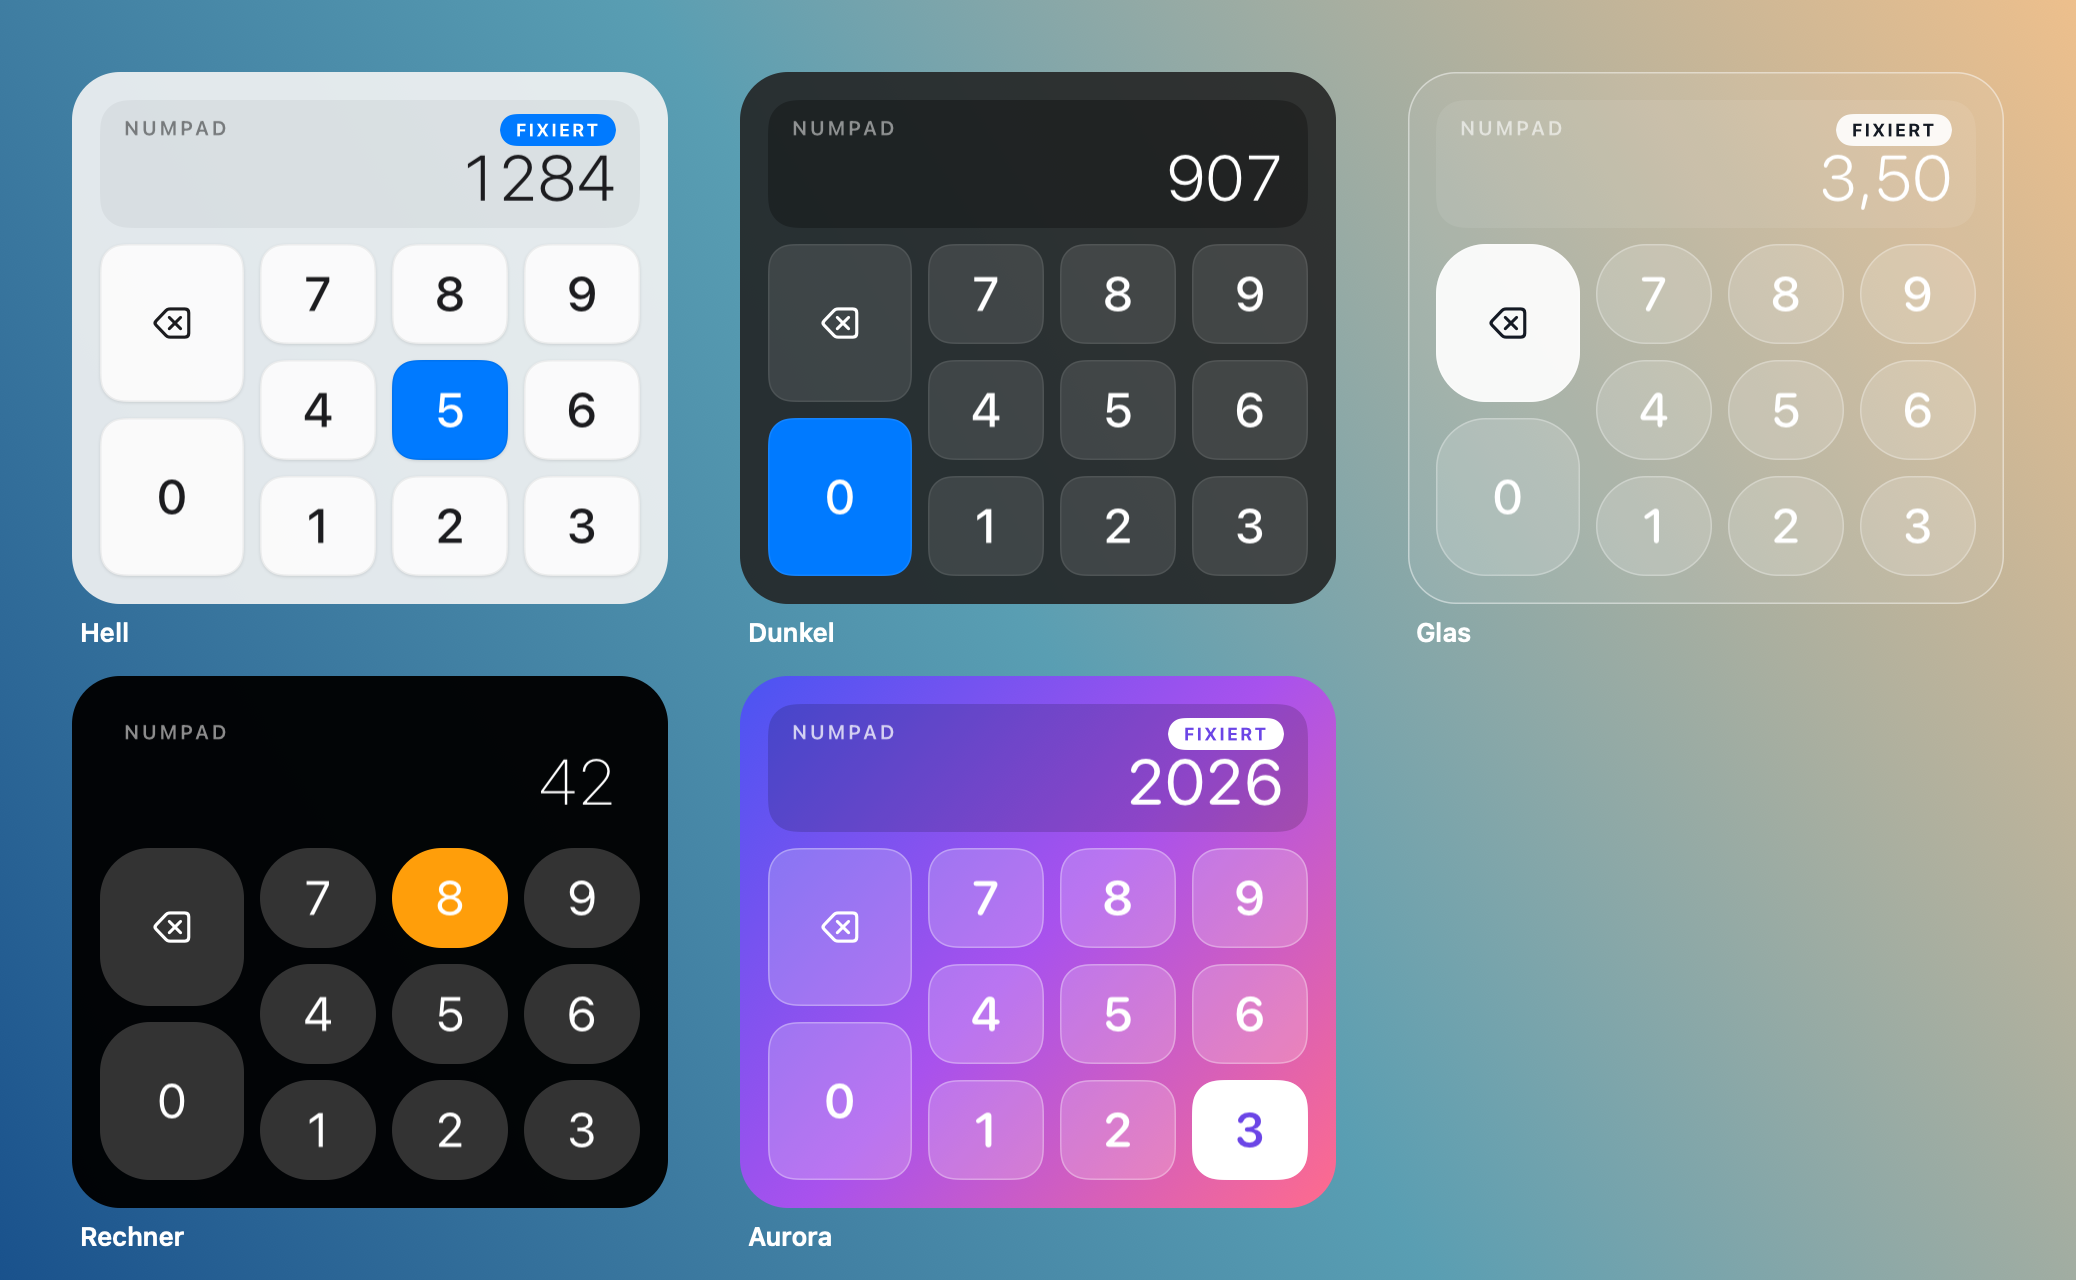
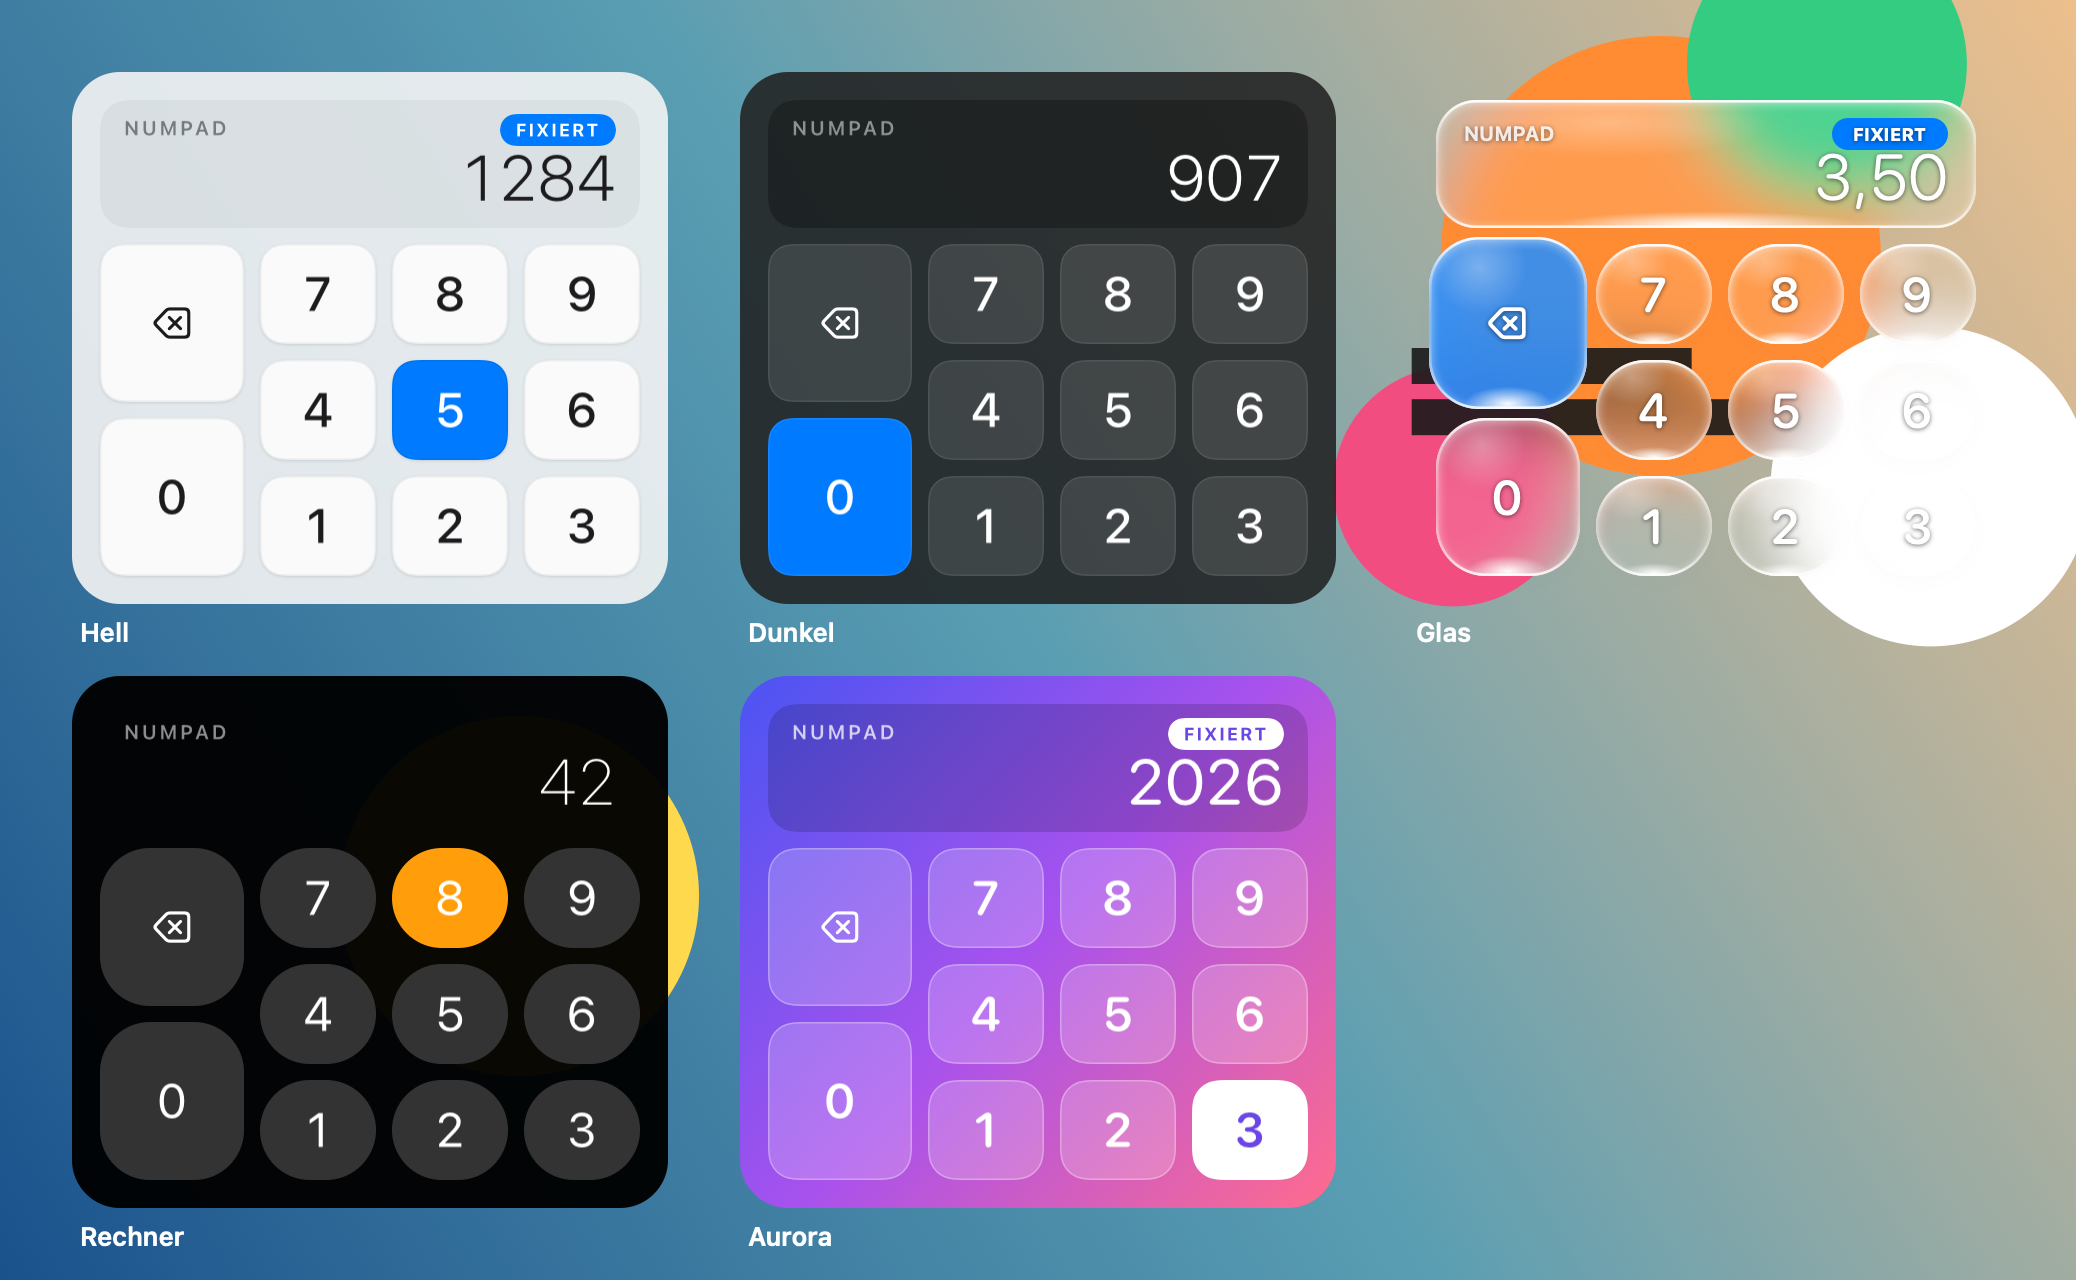
Glass design: iOS-style rim light, inner edge glow and glints
GlassSheenView adds a milky body, inward edge glow, top/bottom-weighted
gradient rim and specular glints on top of the system Liquid Glass;
frosted (regular) glass style, stronger legibility shadow. --render
now previews the glass design over a blurred photo-like backdrop.

Changed region(s): [[0.6166, 0.0, 1.0, 0.5312], [0.3083, 0.625, 0.3391, 0.7812]]

diff --git a/Sources/GlassSheen.swift b/Sources/GlassSheen.swift
@@ -1,0 +1,180 @@
+import AppKit
+import CoreImage
+
+/// Lighting on top of a blurred backdrop that makes it read as a thick piece of glass
+/// (iOS 26 Control Center look): milky body, inner edge glow, bright gradient rim, specular glints.
+final class GlassSheenView: NSView {
+    private let radius: CGFloat
+    private let frost = CALayer()
+    private let edgeGlow = CAShapeLayer()
+    private let edgeMask = CAShapeLayer()
+    private let rim = CAGradientLayer()
+    private let rimMask = CAShapeLayer()
+    private let glintClip = CALayer()
+    private let topGlint = CAGradientLayer()
+    private let bottomGlint = CAGradientLayer()
+
+    init(frame: NSRect, radius: CGFloat) {
+        self.radius = radius
+        super.init(frame: frame)
+        wantsLayer = true
+        autoresizingMask = [.width, .height]
+        guard let root = layer else { return }
+
+        frost.backgroundColor = NSColor.white.withAlphaComponent(0.13).cgColor
+        root.addSublayer(frost)
+
+        // Inner glow: a white "shadow" cast inwards from outside the shape – thick, lens-like edges.
+        edgeGlow.fillRule = .evenOdd
+        edgeGlow.fillColor = NSColor.white.cgColor
+        edgeGlow.shadowColor = NSColor.white.cgColor
+        edgeGlow.shadowOpacity = 0.75
+        edgeGlow.shadowRadius = 6
+        edgeGlow.shadowOffset = CGSize(width: 0, height: -1.5)   // light from above
+        edgeGlow.mask = edgeMask
+        root.addSublayer(edgeGlow)
+
+        glintClip.masksToBounds = true
+        for g in [topGlint, bottomGlint] {
+            g.type = .radial
+            g.startPoint = CGPoint(x: 0.5, y: 0.5)
+            g.endPoint = CGPoint(x: 1, y: 1)
+            glintClip.addSublayer(g)
+        }
+        topGlint.colors = [NSColor.white.withAlphaComponent(0.30).cgColor, NSColor.white.withAlphaComponent(0).cgColor]
+        bottomGlint.colors = [NSColor.white.withAlphaComponent(0.95).cgColor, NSColor.white.withAlphaComponent(0).cgColor]
+        root.addSublayer(glintClip)
+
+        // Rim: bright at the top and bottom edge, faint on the sides.
+        rim.colors = [0.95, 0.40, 0.10, 0.10, 0.45, 0.85].map { NSColor.white.withAlphaComponent($0).cgColor }
+        rim.locations = [0, 0.18, 0.45, 0.6, 0.86, 1]
+        rim.startPoint = CGPoint(x: 0.5, y: 1)
+        rim.endPoint = CGPoint(x: 0.5, y: 0)
+        rimMask.fillColor = nil
+        rimMask.strokeColor = NSColor.black.cgColor
+        rimMask.lineWidth = 1.3
+        rim.mask = rimMask
+        root.addSublayer(rim)
+
+        relayout()
+    }
+
+    required init?(coder: NSCoder) { fatalError() }
+
+    /// Keeps white glyphs readable when the glass sits on something bright.
+    static let legibilityShadow: NSShadow = {
+        let s = NSShadow()
+        s.shadowColor = NSColor.black.withAlphaComponent(0.55)
+        s.shadowBlurRadius = 5
+        s.shadowOffset = NSSize(width: 0, height: -0.5)
+        return s
+    }()
+
+    override func setFrameSize(_ newSize: NSSize) {
+        super.setFrameSize(newSize)
+        relayout()
+    }
+
+    private func relayout() {
+        CATransaction.begin()
+        CATransaction.setDisableActions(true)
+        let b = bounds
+        let r = min(radius, b.height / 2, b.width / 2)
+        let shape = CGPath(roundedRect: b, cornerWidth: r, cornerHeight: r, transform: nil)
+
+        frost.frame = b
+        frost.cornerRadius = r
+
+        let outside = CGMutablePath()
+        outside.addRect(b.insetBy(dx: -24, dy: -24))
+        outside.addPath(shape)
+        edgeGlow.frame = b
+        edgeGlow.path = outside
+        edgeMask.frame = b
+        edgeMask.path = shape
+
+        glintClip.frame = b
+        glintClip.cornerRadius = r
+        topGlint.frame = CGRect(x: b.width * 0.02, y: b.height * 0.55, width: b.width * 0.6, height: b.height * 0.55)
+        bottomGlint.frame = CGRect(x: b.midX - b.width * 0.28, y: -b.height * 0.07, width: b.width * 0.56, height: b.height * 0.2)
+
+        rim.frame = b
+        rimMask.frame = b
+        let inset = rimMask.lineWidth / 2
+        rimMask.path = CGPath(roundedRect: b.insetBy(dx: inset, dy: inset), cornerWidth: r - inset, cornerHeight: r - inset, transform: nil)
+        CATransaction.commit()
+    }
+}
+
+/// Offscreen approximation of the "Glas" design for `--render` (the real blur comes from the window server).
+enum GlassPreview {
+    static func draw(into ctx: CGContext, canvas: CGSize, origin: CGPoint, keyFrames: [PadKey: CGRect], displayFrame: CGRect,
+                     typed: String, pressed: PadKey, latched: Bool, scale: CGFloat) {
+        guard let snapshot = ctx.makeImage() else { return }
+        let ci = CIImage(cgImage: snapshot).clampedToExtent()
+            .applyingGaussianBlur(sigma: 14 * scale).cropped(to: CGRect(x: 0, y: 0, width: snapshot.width, height: snapshot.height))
+        guard let blurred = CIContext().createCGImage(ci, from: ci.extent) else { return }
+
+        func glass(_ rect: CGRect, radius: CGFloat, glow: Bool) {
+            let r = rect.offsetBy(dx: origin.x, dy: origin.y)
+            let rr = min(radius, r.height / 2)
+            ctx.saveGState()
+            ctx.setShadow(offset: CGSize(width: 0, height: -6), blur: 18, color: NSColor.black.withAlphaComponent(0.25).cgColor)
+            ctx.addPath(CGPath(roundedRect: r, cornerWidth: rr, cornerHeight: rr, transform: nil))
+            ctx.setFillColor(NSColor.black.withAlphaComponent(0.05).cgColor)
+            ctx.fillPath()
+            ctx.restoreGState()
+
+            ctx.saveGState()
+            ctx.addPath(CGPath(roundedRect: r, cornerWidth: rr, cornerHeight: rr, transform: nil))
+            ctx.clip()
+            // Slight magnification, like the lens edge of Liquid Glass.
+            let mag: CGFloat = 1.04
+            let full = CGRect(origin: .zero, size: canvas)
+            let zoomed = CGRect(x: r.midX - (r.midX - full.minX) * mag, y: r.midY - (r.midY - full.minY) * mag,
+                                width: full.width * mag, height: full.height * mag)
+            ctx.draw(blurred, in: zoomed)
+            if glow {
+                ctx.setFillColor(NSColor.controlAccentColor.withAlphaComponent(0.85).cgColor)
+                ctx.fill(r)
+            }
+            ctx.restoreGState()
+
+            let sheen = GlassSheenView(frame: NSRect(origin: .zero, size: r.size), radius: radius)
+            ctx.saveGState()
+            ctx.translateBy(x: r.minX, y: r.minY)
+            sheen.layer?.render(in: ctx)
+            ctx.restoreGState()
+        }
+
+        let shadow = GlassSheenView.legibilityShadow
+        func text(_ s: String, _ font: NSFont, in rect: CGRect, align: NSTextAlignment = .center, color: NSColor = .white) {
+            let p = NSMutableParagraphStyle()
+            p.alignment = align
+            let a = NSAttributedString(string: s, attributes: [.font: font, .foregroundColor: color, .paragraphStyle: p, .shadow: shadow])
+            let h = a.size().height
+            let r = rect.offsetBy(dx: origin.x, dy: origin.y)
+            a.draw(in: CGRect(x: r.minX, y: r.midY - h / 2, width: r.width, height: h))
+        }
+
+        NSGraphicsContext.current = NSGraphicsContext(cgContext: ctx, flipped: false)
+        for (key, rect) in keyFrames {
+            let r = key == pressed ? rect.insetBy(dx: -3.5, dy: -3.5) : rect
+            glass(r, radius: 25, glow: key == pressed)
+            text(key.label, key == .delete ? .systemFont(ofSize: 22) : NSFont.systemFont(ofSize: 24, weight: .medium).roundedVariant, in: r)
+        }
+        glass(displayFrame, radius: 20, glow: false)
+        let d = displayFrame
+        text("NUMPAD", .systemFont(ofSize: 10, weight: .semibold), in: CGRect(x: d.minX + 14, y: d.maxY - 24, width: 120, height: 14),
+             align: .left, color: NSColor.white.withAlphaComponent(0.85))
+        text(typed, NSFont.monospacedDigitSystemFont(ofSize: 32, weight: .light).roundedVariant,
+             in: CGRect(x: d.minX + 12, y: d.minY + 6, width: d.width - 26, height: 40), align: .right)
+        if latched {
+            let pill = CGRect(x: d.maxX - 14 - 58, y: d.maxY - 25, width: 58, height: 16).offsetBy(dx: origin.x, dy: origin.y)
+            ctx.addPath(CGPath(roundedRect: pill, cornerWidth: 8, cornerHeight: 8, transform: nil))
+            ctx.setFillColor(NSColor.controlAccentColor.cgColor)
+            ctx.fillPath()
+            text("FIXIERT", .systemFont(ofSize: 9, weight: .bold), in: pill.offsetBy(dx: -origin.x, dy: -origin.y))
+        }
+    }
+}

diff --git a/Sources/LiquidGlassBoard.swift b/Sources/LiquidGlassBoard.swift
@@ -3,6 +3,7 @@ import AppKit
 /// "Glas" design on macOS 26: every key and the display are individual, see-through Liquid Glass
 /// elements floating on the desktop (no backing slab). They share one NSGlassEffectContainerView,
 /// so a pressed key that bulges towards its neighbours briefly melts into them.
+/// macOS draws the blur and refraction; GlassSheenView adds the iOS-style rim light and edge glow.
 @available(macOS 26.0, *)
 final class LiquidGlassBoard: NSView {
     /// Glass shapes closer than this merge. Resting gap is larger, so only a pressed (bulged) key merges.
@@ -37,6 +38,7 @@ final class LiquidGlassBoard: NSView {
             glow.layer?.cornerRadius = 25
             glow.alphaValue = 0
             host.addSubview(glow)
+            host.addSubview(GlassSheenView(frame: host.bounds, radius: 25))
             let label = Self.label(key.label, font: key == .delete
                 ? .systemFont(ofSize: 22, weight: .regular)
                 : Self.rounded(24, .medium))
@@ -48,6 +50,7 @@ final class LiquidGlassBoard: NSView {
         let displayGlass = makeGlass(displayFrame, radius: 20)
         let dc = NSView(frame: NSRect(origin: .zero, size: displayFrame.size))
         displayGlass.contentView = dc
+        dc.addSubview(GlassSheenView(frame: dc.bounds, radius: 20))
 
         let caption = Self.label("", font: .systemFont(ofSize: 10, weight: .semibold))
         caption.attributedStringValue = NSAttributedString(string: "NUMPAD", attributes: [
@@ -120,7 +123,7 @@ final class LiquidGlassBoard: NSView {
 
     private func makeGlass(_ rect: CGRect, radius: CGFloat) -> NSGlassEffectView {
         let g = NSGlassEffectView(frame: rect)
-        g.style = .clear
+        g.style = .regular
         g.cornerRadius = radius
         return g
     }
@@ -134,13 +137,7 @@ final class LiquidGlassBoard: NSView {
         ])
     }
 
-    private static let legibilityShadow: NSShadow = {
-        let s = NSShadow()
-        s.shadowColor = NSColor.black.withAlphaComponent(0.35)
-        s.shadowBlurRadius = 3
-        s.shadowOffset = NSSize(width: 0, height: -0.5)
-        return s
-    }()
+    private static var legibilityShadow: NSShadow { GlassSheenView.legibilityShadow }
 
     private static func label(_ text: String, font: NSFont) -> NSTextField {
         let l = NSTextField(labelWithString: text)

diff --git a/Sources/main.swift b/Sources/main.swift
@@ -54,6 +54,21 @@ if let i = args.firstIndex(of: "--render"), i + 1 < args.count {
         NSColor(srgbRed: 0.93, green: 0.75, blue: 0.55, alpha: 1).cgColor,
     ] as CFArray, locations: nil)!
     ctx.drawLinearGradient(wallpaper, start: .zero, end: CGPoint(x: W, y: H), options: [])
+    // Some shapes behind the designs, so blur and transparency are visible.
+    let blobs: [(CGFloat, CGFloat, CGFloat, NSColor)] = [
+        (0.80, 0.80, 110, NSColor(srgbRed: 1.0, green: 0.55, blue: 0.2, alpha: 1)),
+        (0.93, 0.62, 80, .white),
+        (0.70, 0.62, 60, NSColor(srgbRed: 0.95, green: 0.3, blue: 0.5, alpha: 1)),
+        (0.88, 0.95, 70, NSColor(srgbRed: 0.2, green: 0.8, blue: 0.5, alpha: 1)),
+        (0.25, 0.30, 90, NSColor(srgbRed: 1.0, green: 0.85, blue: 0.3, alpha: 1)),
+    ]
+    for (fx, fy, r, c) in blobs {
+        ctx.setFillColor(c.cgColor)
+        ctx.fillEllipse(in: CGRect(x: fx * W - r, y: fy * H - r, width: 2 * r, height: 2 * r))
+    }
+    ctx.setFillColor(NSColor(white: 0.1, alpha: 0.9).cgColor)
+    ctx.fill(CGRect(x: W * 0.68, y: H * 0.70, width: 140, height: 18))
+    ctx.fill(CGRect(x: W * 0.68, y: H * 0.66, width: 200, height: 18))
     for (n, th) in themes.enumerated() {
         let o = Overlay(theme: th)
         let x = margin + CGFloat(n % cols) * (Overlay.width + margin)

diff --git a/Sources/Overlay.swift b/Sources/Overlay.swift
@@ -176,6 +176,13 @@ final class Overlay {
         }
         CATransaction.commit()
 
+        if case .glass = theme.background {
+            let canvas = CGSize(width: CGFloat(ctx.width) / scale, height: CGFloat(ctx.height) / scale)
+            GlassPreview.draw(into: ctx, canvas: canvas, origin: origin, keyFrames: Self.keyFrames, displayFrame: Self.displayFrame,
+                              typed: sample, pressed: pressed, latched: latched, scale: scale)
+            return
+        }
+
         ctx.saveGState()
         ctx.translateBy(x: origin.x, y: origin.y)
         let rect = CGRect(x: 0, y: 0, width: Self.width, height: Self.height)
@@ -193,12 +200,7 @@ final class Overlay {
             ctx.setFillColor((m == .popover ? NSColor(white: 0.96, alpha: 0.9) : NSColor(white: 0.13, alpha: 0.88)).cgColor)
             ctx.fill(rect)
         case .glass:
-            ctx.setFillColor(NSColor(white: 1, alpha: 0.10).cgColor)
-            ctx.fill(rect)
-            ctx.setStrokeColor(NSColor(white: 1, alpha: 0.45).cgColor)
-            ctx.setLineWidth(1.5)
-            ctx.addPath(path)
-            ctx.strokePath()
+            break  // handled above
         case .solid(let c):
             ctx.setFillColor(c.cgColor)
             ctx.fill(rect)

diff --git a/README.md b/README.md
@@ -105,6 +105,7 @@ Abhängigkeiten.
 | `Sources/Feedback.swift` | Ton (synthetisiert, AVAudioEngine) und Taptic-Engine-Vibration |
 | `Sources/Theme.swift` | Die Designs (Farben, Formen, Hintergrund) |
 | `Sources/LiquidGlassBoard.swift` | Glas-Design mit macOS-26-Liquid-Glass-Tasten |
+| `Sources/GlassSheen.swift` | Lichtrand, Kantenglühen und Glanzpunkte im iOS-Stil |
 | `Sources/Overlay.swift` | Anzeige-Panel |
 | `Sources/AppDelegate.swift` | Menüleiste, Einstellungen, Berechtigungen |
 | `Sources/main.swift` | Einstieg, `--selftest`, `--probe` |
